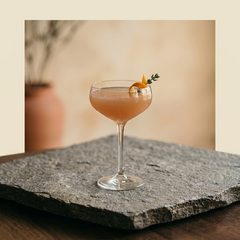
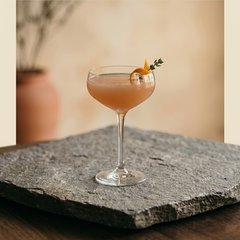
Fix two real issues found via Impeccable/Emil audit on the live screenshot:
P0 - Hero card subtitle was illegible over the bright plate (computed contrast 1.71:1 at the worst point, since the scrim faded out before the text did). Strengthened the scrim to stay opaque through the entire text zone and capped text width so it can never reach the fade zone. Re-verified: 4.9:1 and 9.3:1, both pass AA.

P1 - The three collection circles inconsistently showed the source images' cream matte border instead of being cropped tight to the actual photo content. Re-cropped all three (Coffee needed a manual crop since its blurred background is close enough in tone to the matte border that automatic edge-detection couldn't distinguish them).

diff --git a/css/style.css b/css/style.css
@@ -197,11 +197,12 @@ button, input {
 }
 .home-hero-scrim {
   position: absolute; inset: 0;
-  background: linear-gradient(90deg, rgba(35,46,31,0.78) 0%, rgba(35,46,31,0.62) 32%, rgba(35,46,31,0.1) 62%, rgba(35,46,31,0) 78%);
+  background: linear-gradient(90deg, rgba(35,46,31,0.88) 0%, rgba(35,46,31,0.88) 60%, rgba(35,46,31,0.4) 78%, rgba(35,46,31,0.05) 92%);
 }
 .home-hero-eyebrow {
   font-family: var(--font-display); font-size: 10.5px; font-weight: 700; color: var(--cream-on-charcoal-soft);
   text-transform: uppercase; letter-spacing: 0.8px; margin: 0 0 6px; position: relative; z-index: 1;
+  max-width: 56%;
 }
 .home-hero-title {
   font-family: var(--font-display); font-size: 30px; font-weight: 800; margin: 0 0 6px; color: var(--cream-on-charcoal);
@@ -210,6 +211,7 @@ button, input {
 .home-hero-sub {
   font-family: var(--font-body); font-size: 13px; color: var(--cream-on-charcoal-soft);
   margin: 0 0 20px; position: relative; z-index: 1;
+  max-width: 56%;
 }
 .home-hero-btn {
   display: inline-block; background: var(--terracotta); color: var(--terracotta-ink);
